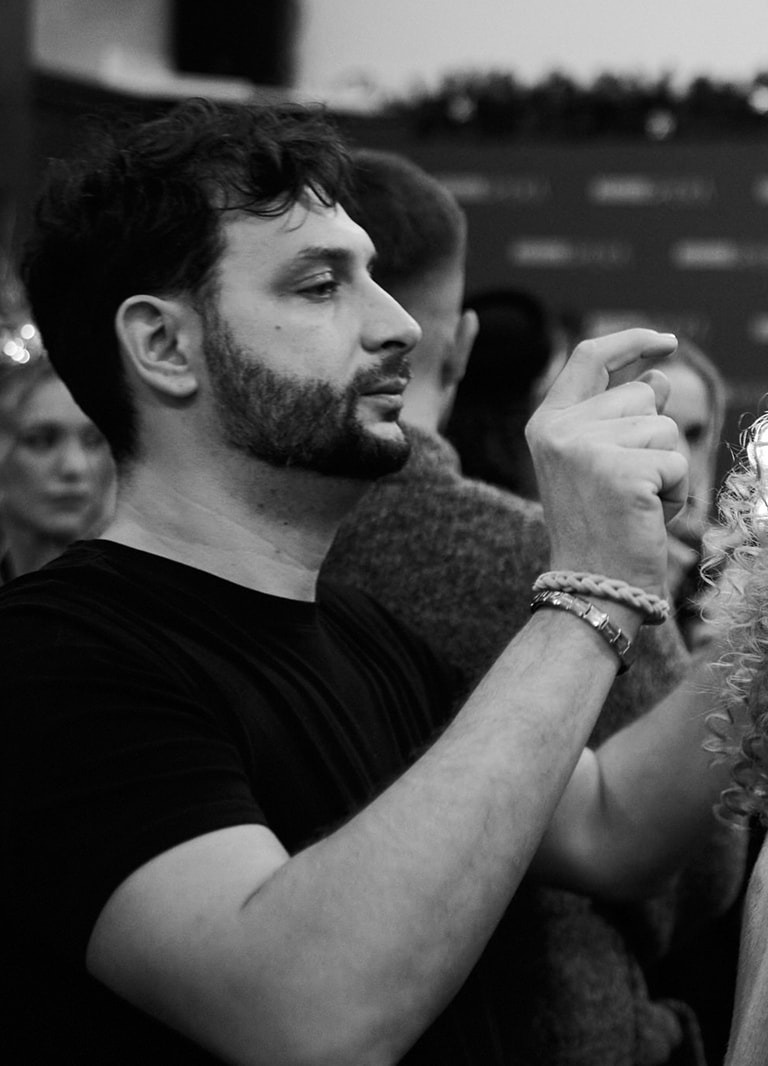
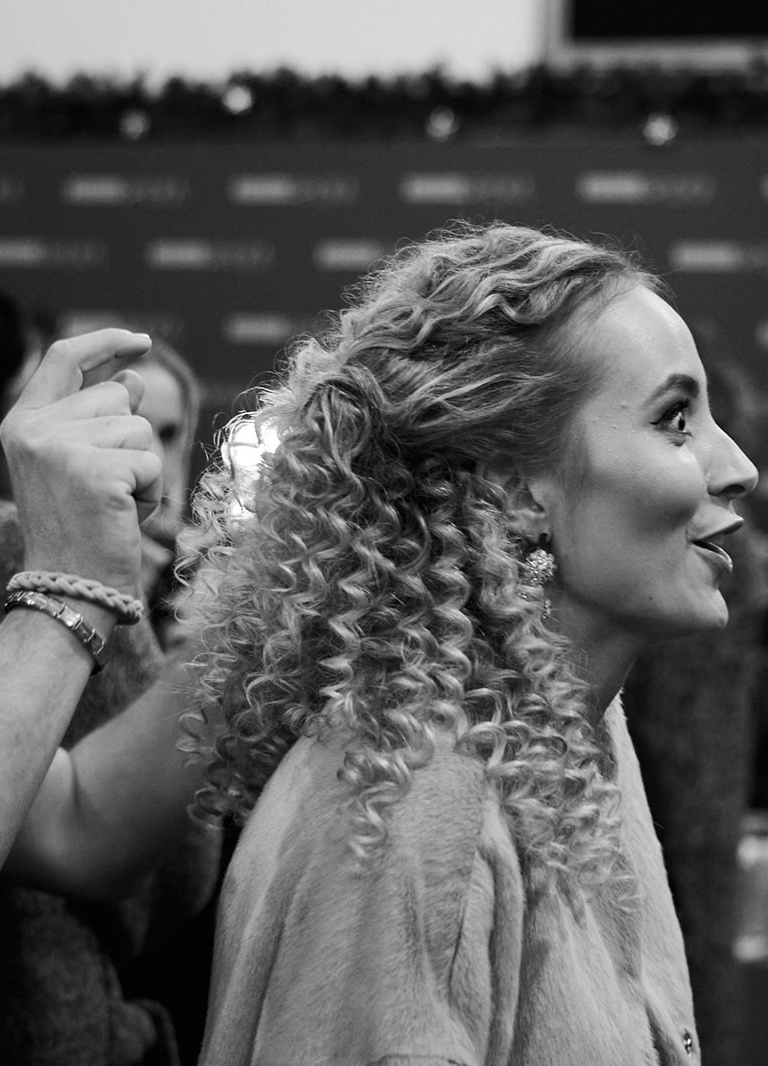
Navratenie povodneho nazvu Umenie fukanej a centrovanie fotografie na uces modelky

diff --git a/src/data/content.ts b/src/data/content.ts
@@ -14,7 +14,7 @@ export interface Seminar {
   country: string;
   venue: string;
   dates: string;
-  category: 'Styling' | 'Strih' | 'Balayage & Blond' | 'Overenie Platby';
+  category: 'Umenie Fúkanej' | 'Styling' | 'Strih' | 'Balayage & Blond' | 'Overenie Platby';
   duration: string;
   totalSeats: number;
   availableSeats: number;
@@ -84,9 +84,9 @@ export const STYLIST_PROFILE = {
   instagramUrl: "https://www.instagram.com/hair_riccardo/",
   facebookUrl: "https://www.facebook.com/hairsalonriccardo",
   googleMapsUrl: "https://maps.google.com/?q=Hair+Salon+Riccardo+Lucenec",
-  bioHeadline: "Vášeň pre dokonalý styling, geometriu strihu a žiarivé farby.",
-  bioDescription: "Richard Čonka (Riccardo) je uznávaný slovenský hairstylist, zakladateľ prestížneho Hair Salon Riccardo v Lučenci a nositeľ ocenenia Cena verejnosti SR na prestížnych Czech & Slovak Hairdressing Awards (kaderníckych Oskaroch v Prahe). Svojimi autorskými masterclassmi a majstrovskými seminármi inšpiruje kaderníkov po celom Slovensku a Česku.",
-  quote: "Vlasy nie sú len práca, sú architektúra v pohybe. Správna technika stylingu a precízny strih dajú žene sebavedomie, ktoré zmení celú jej auru.",
+  bioHeadline: "Vášeň pre dokonalú fúkanú, geometriu strihu a žiarivé farby.",
+  bioDescription: "Richard Čonka (Riccardo) je uznávaný slovenský hairstylist, zakladateľ prestížneho Hair Salon Riccardo v Lučenci a nositeľ ocenenia Cena verejnosti SR na prestížnych Czech & Slovak Hairdressing Awards (kaderníckych Oskaroch v Prahe). Svojou ikonickou vzdelávacou sériou 'Umenie fúkanej' a majstrovskými seminármi inšpiruje kaderníkov po celom Slovensku a Česku.",
+  quote: "Vlasy nie sú len práca, sú architektúra v pohybe. Správna technika fúkanej a precízny strih dajú žene sebavedomie, ktoré zmení celú jej auru.",
   heroImage: "/images/riccardo/gallery/riccardo_art_56.jpg",
   stageImage: "/images/riccardo/richard_conka_stage_award.jpg",
   winnersGroupImage: "/images/riccardo/hda_winners_group_hires.jpg",
@@ -139,12 +139,12 @@ export const COMPANY_DETAILS = {
 export const SEMINARS_DATA: Seminar[] = [
   {
     id: "sem-umenie-fukanej-lucenec",
-    title: "Architektúra objemu & Trvácnosť: Styling Masterclass",
+    title: "Umenie fúkanej: Architektúra objemu & Trvácnosť",
     city: "Lučenec",
     country: "Slovensko",
     venue: "Atelier Hair Salon Riccardo, J. Kármána 30",
     dates: "16. – 17. November 2026",
-    category: "Styling",
+    category: "Umenie Fúkanej",
     duration: "2 dni (14 hodín intenzívnej praxe)",
     totalSeats: 6,
     availableSeats: 2,
@@ -154,18 +154,18 @@ export const SEMINARS_DATA: Seminar[] = [
     learningOutcomes: [
       "Správna biomechanika a ergonómia rúk pri napínaní prameňa",
       "Technika fixácie vlasu studeným vzduchom pre 72-hodinovú trvácnosť",
-      "Styling 'Riccardo Glam Waves' výhradne cez okrúhlu termálnu kefu bez kulmy",
+      "Fúkané 'Riccardo Glam Waves' výhradne cez okrúhlu termálnu kefu bez kulmy",
       "Práca s live modelkou a profesionálne fotenie pred sociálne siete"
     ],
     schedule: [
       {
         day: "1. Deň: Dynamika tepla, analýza vlasu & Live ukážky",
-        morning: "09:30 – 13:00: Úvod, rozbor štruktúry vlasu, produkty a live ukážka 2 premien na živých modelkách.",
+        morning: "09:30 – 13:00: Úvod, rozbor štruktúry vlasu, produkty a live ukážka 2 fúkaných na živých modelkách.",
         afternoon: "14:00 – 18:00: Praktický hands-on tréning na cvičných hlavách pod osobným dohľadom Richarda Čonku."
       },
       {
         day: "2. Deň: Práca na modelkách & Finálny styling",
-        morning: "09:30 – 13:00: Účastníci kompletne upravujú živé modelky (objem a glamour vlny).",
+        morning: "09:30 – 13:00: Účastníci kompletne fúkajú živé modelky (objem a glamour vlny).",
         afternoon: "14:00 – 17:30: Korekcia detailov, fotenie, odovzdanie certifikátov a toast."
       }
     ],

diff --git a/src/pages/HomePage.tsx b/src/pages/HomePage.tsx
@@ -118,7 +118,7 @@ export const HomePage: React.FC<HomePageProps> = ({ onOpenBooking, onSelectPortf
                   : 'bg-zinc-900/90 text-zinc-400 hover:text-white border border-zinc-800'
               }`}
             >
-              Turnus I: Architektúra objemu (16. – 17. Nov 2026)
+              Turnus I: Umenie fúkanej (16. – 17. Nov 2026)
             </button>
             <button
               onClick={() => setActiveTurnusIndex(1)}

diff --git a/src/utils/calendar.ts b/src/utils/calendar.ts
@@ -33,7 +33,7 @@ export function getSeminarCalendarDates(seminar: Seminar): ParsedDates {
     return {
       dtStart: '20261116T093000',
       dtEnd: '20261117T173000',
-      filename: 'Masterclass-Styling-Riccardo-Lucenec.ics',
+      filename: 'Masterclass-Umenie-Fukanej-Riccardo-Lucenec.ics',
     };
   }
 
